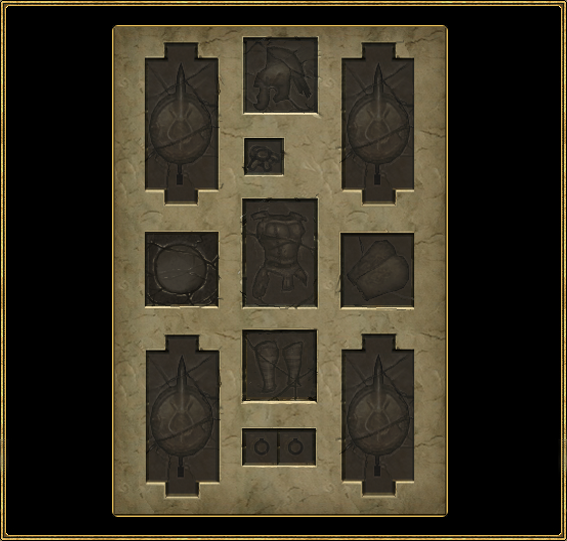
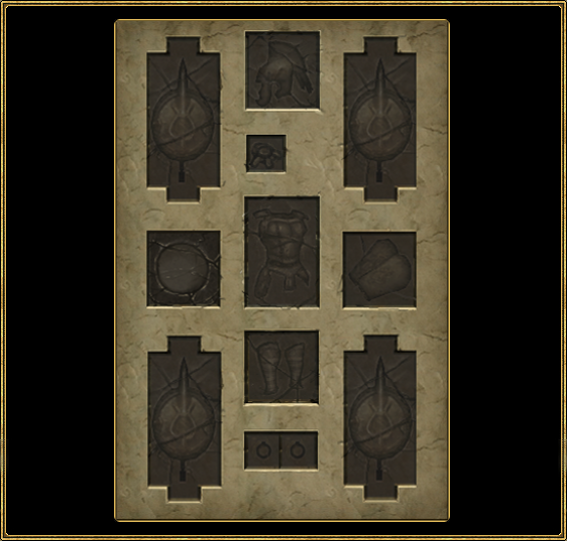
Align EquipmentPanel

diff --git a/src/TQVaultAE.GUI/StashPanel.cs b/src/TQVaultAE.GUI/StashPanel.cs
@@ -131,7 +131,7 @@ namespace TQVaultAE.GUI
 			}
 
 			this.equipmentPanel.SetLocation(new Point(
-				BorderPad + offsetX,
+				offsetX,
 				this.BagButtons[0].Location.Y + this.BagButtons[0].Size.Height + offsetY));
 
 			this.maxPanelSize = panelSize;
